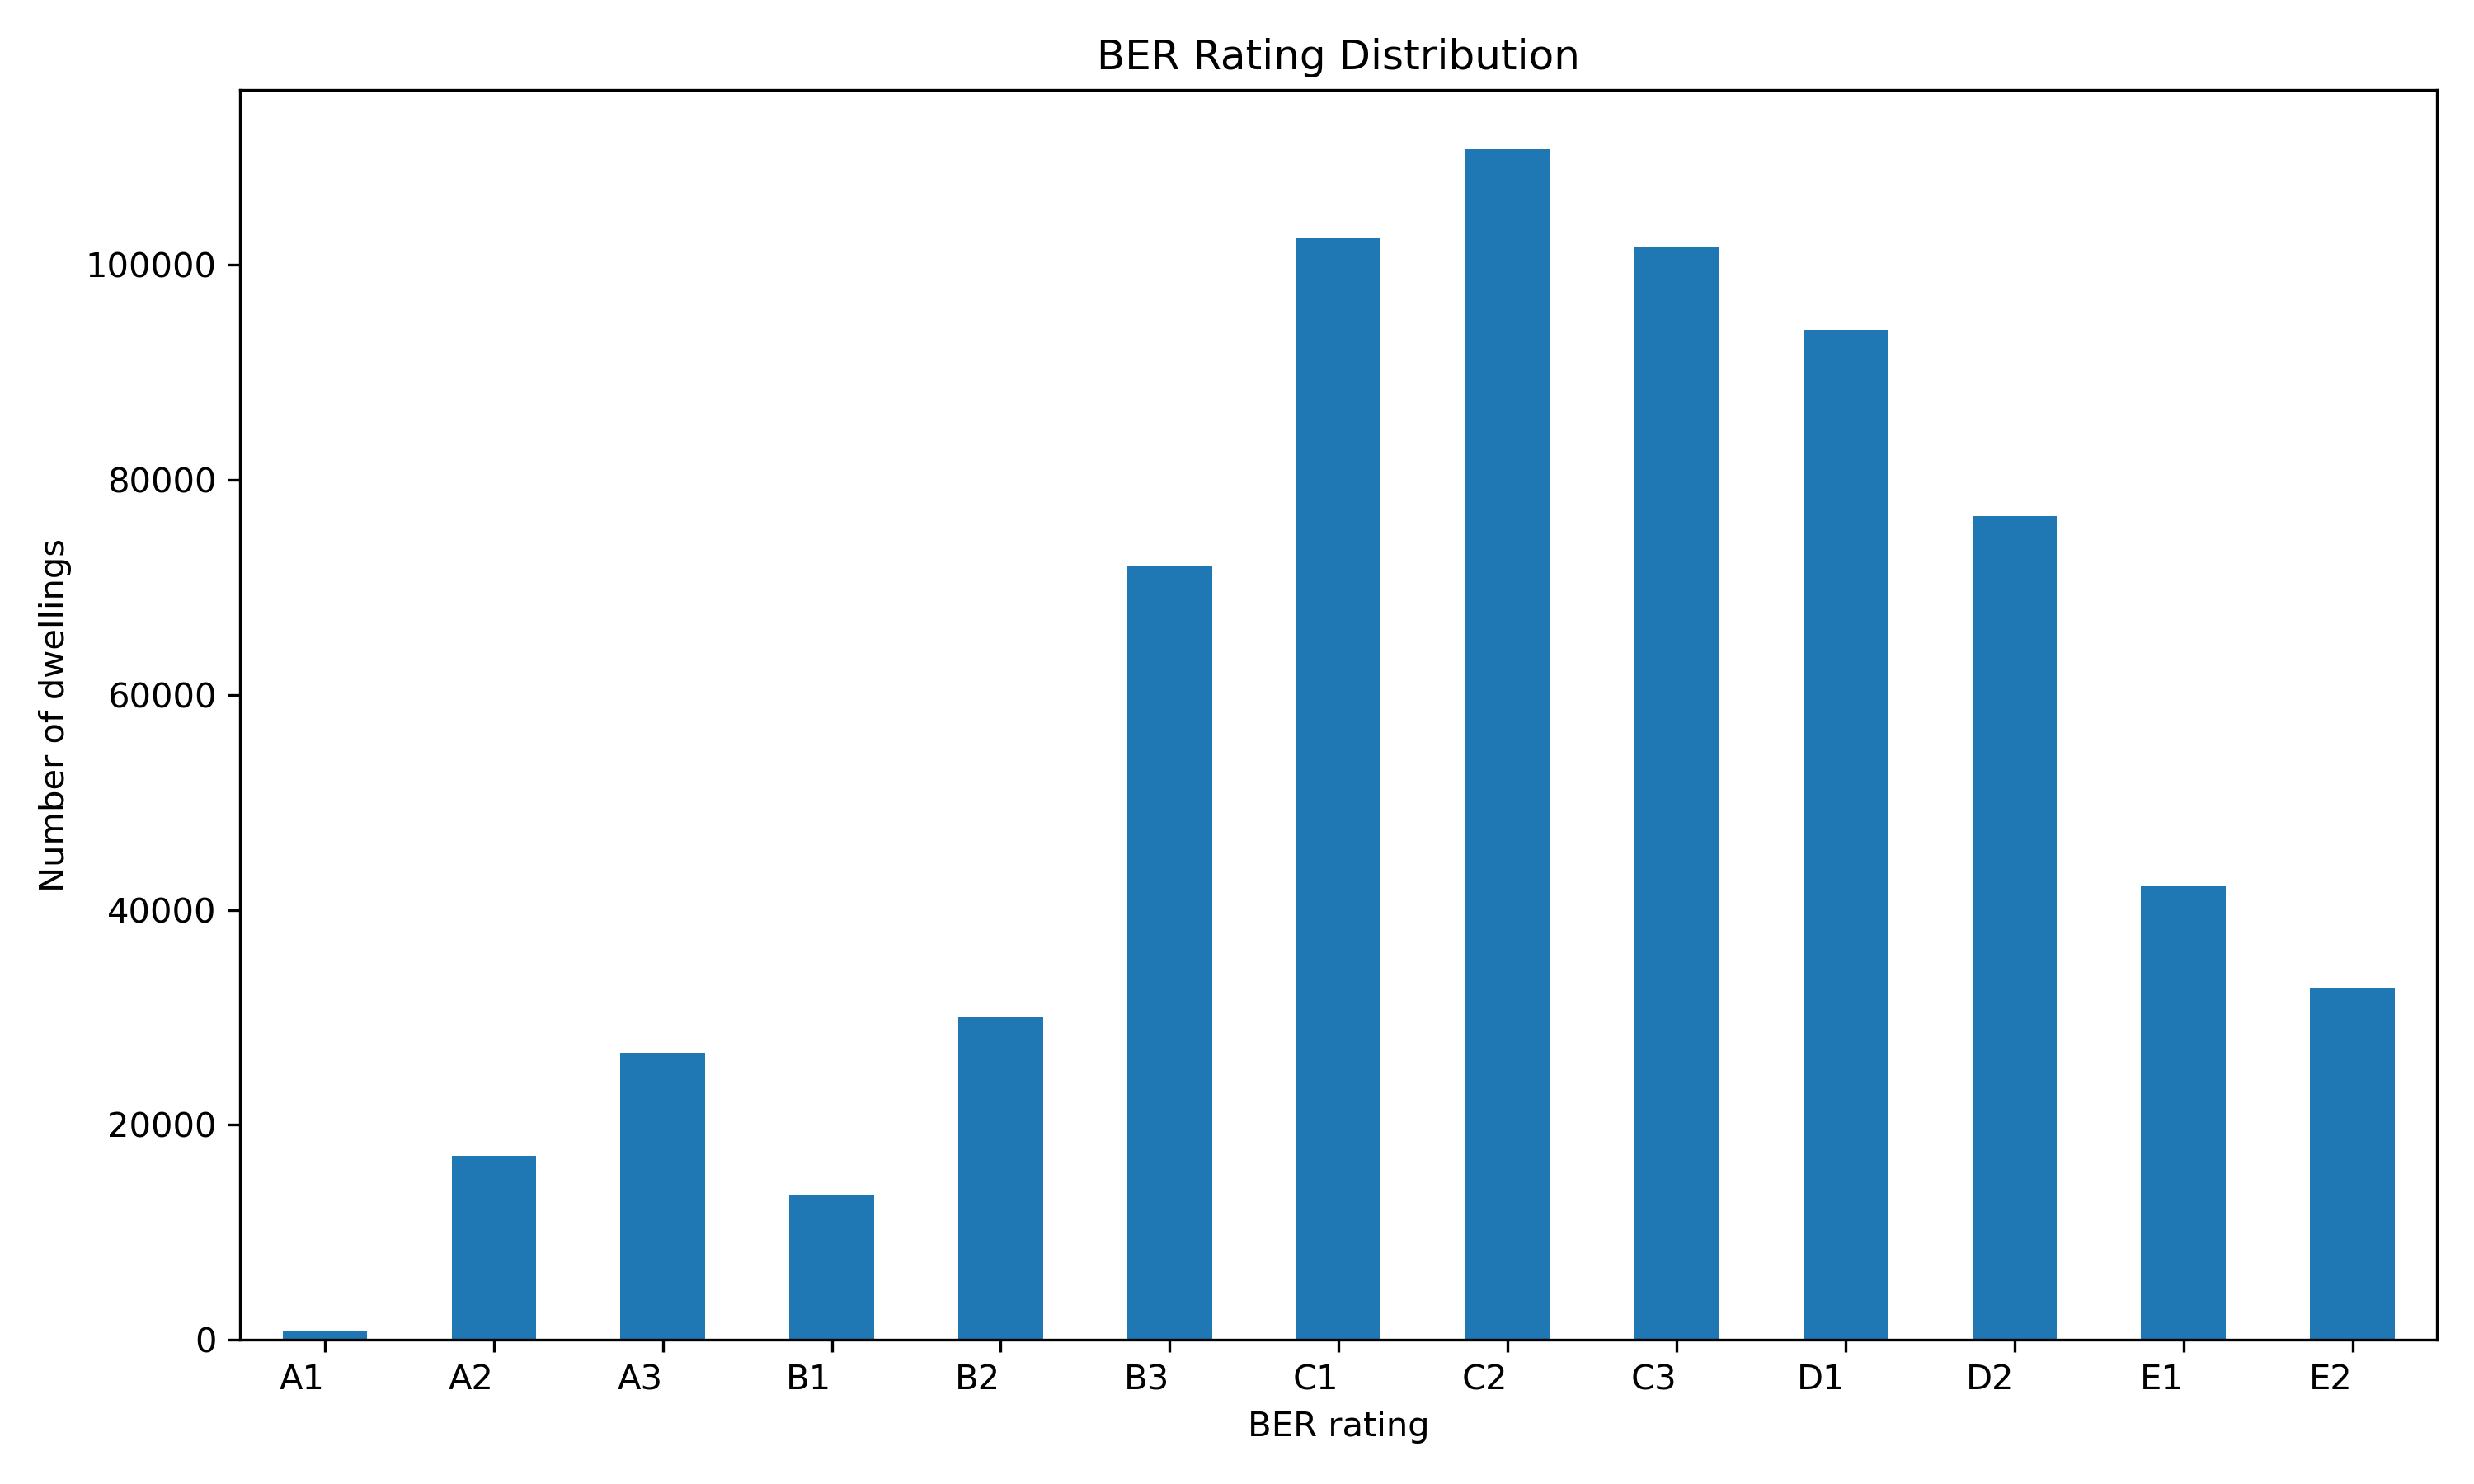
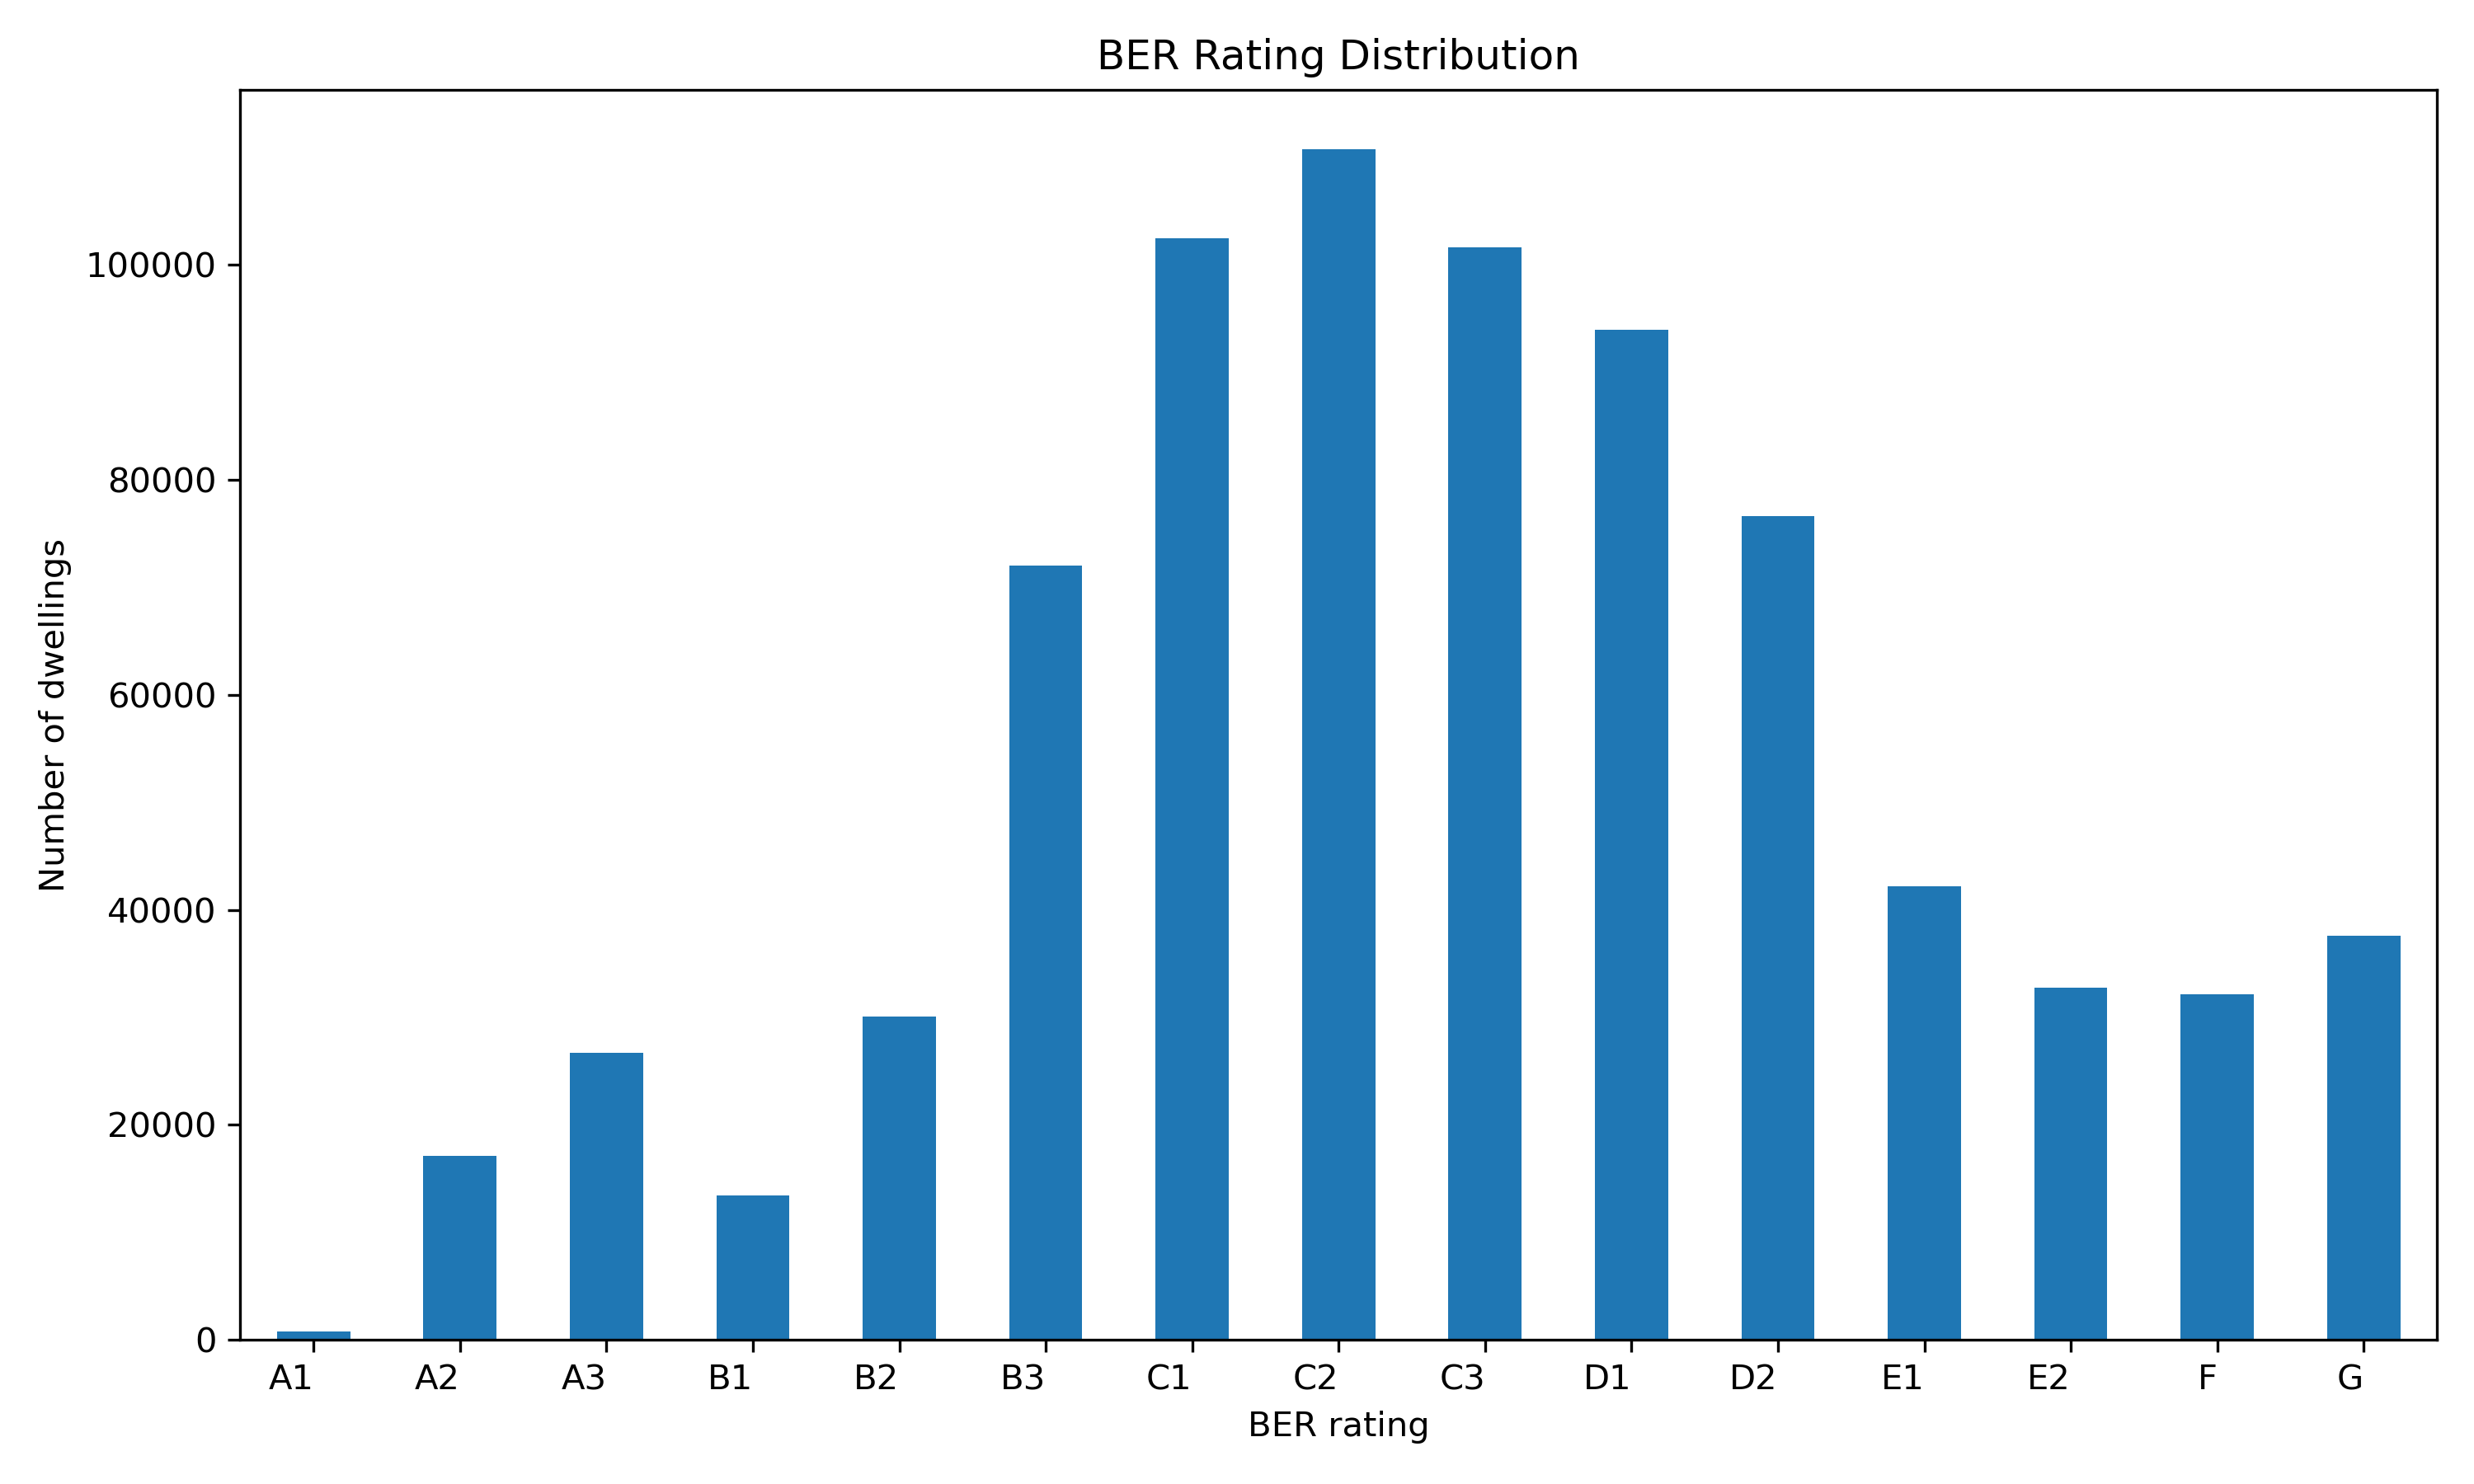
BER rating distribution plot fix

diff --git a/src/eda.py b/src/eda.py
@@ -82,8 +82,10 @@ def plot_ber_rating_distribution():
         "F", "G",
     ]
 
+    ratings["EnergyRating"] = ratings["EnergyRating"].astype(str).str.strip()
+
     counts = ratings["EnergyRating"].value_counts()
-    counts = counts.reindex(rating_order).dropna()
+    counts = counts.reindex(rating_order, fill_value=0)
 
     counts.to_csv(RESULTS_TABLES_DIR / "ber_rating_distribution.csv")
 